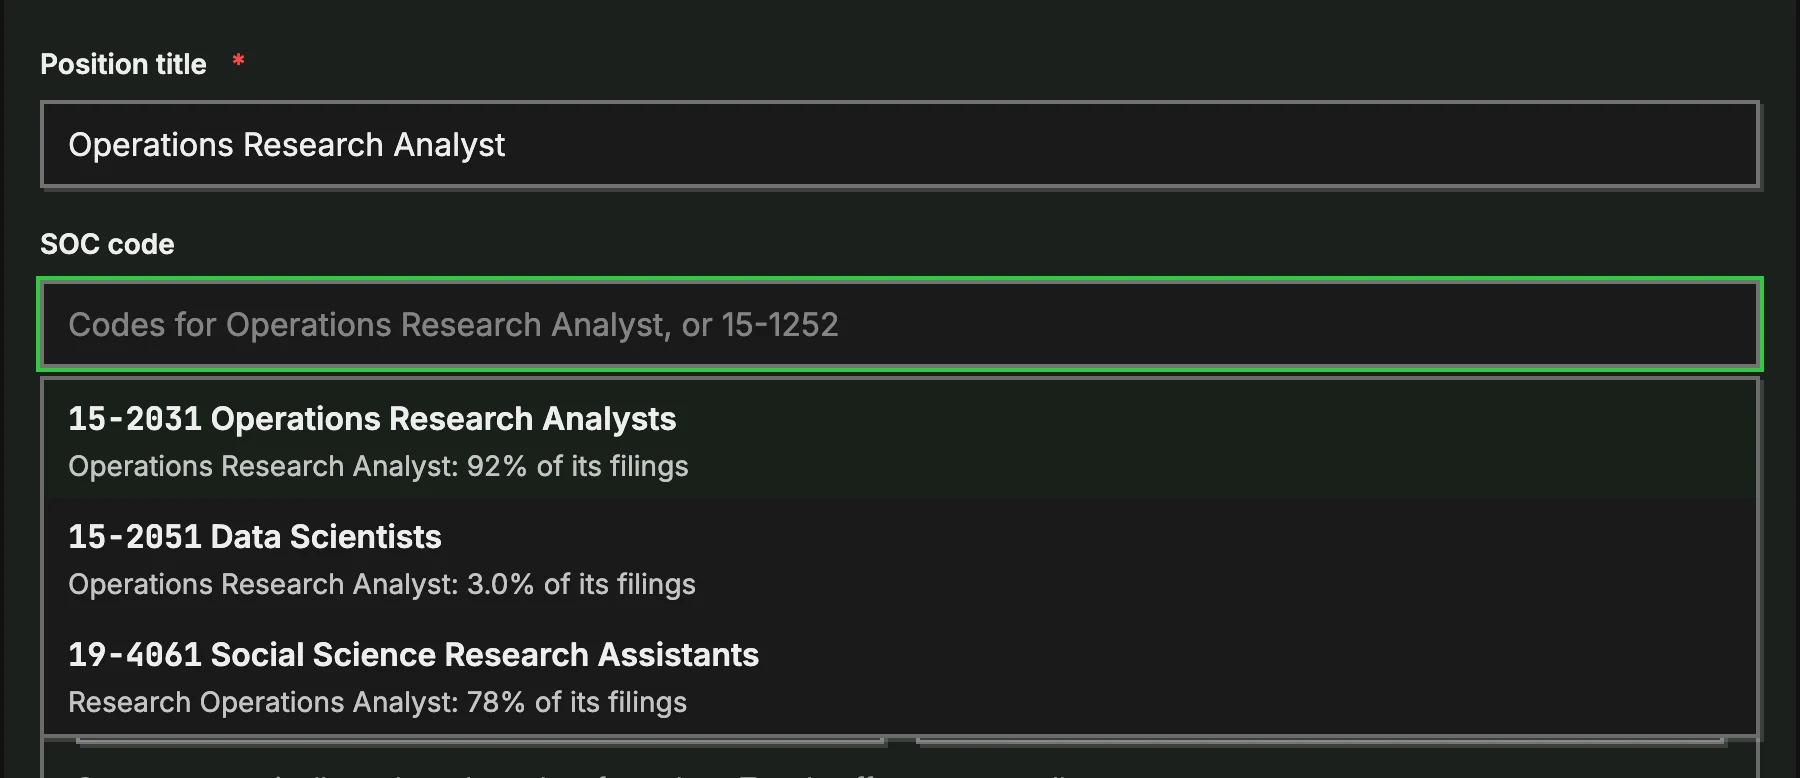
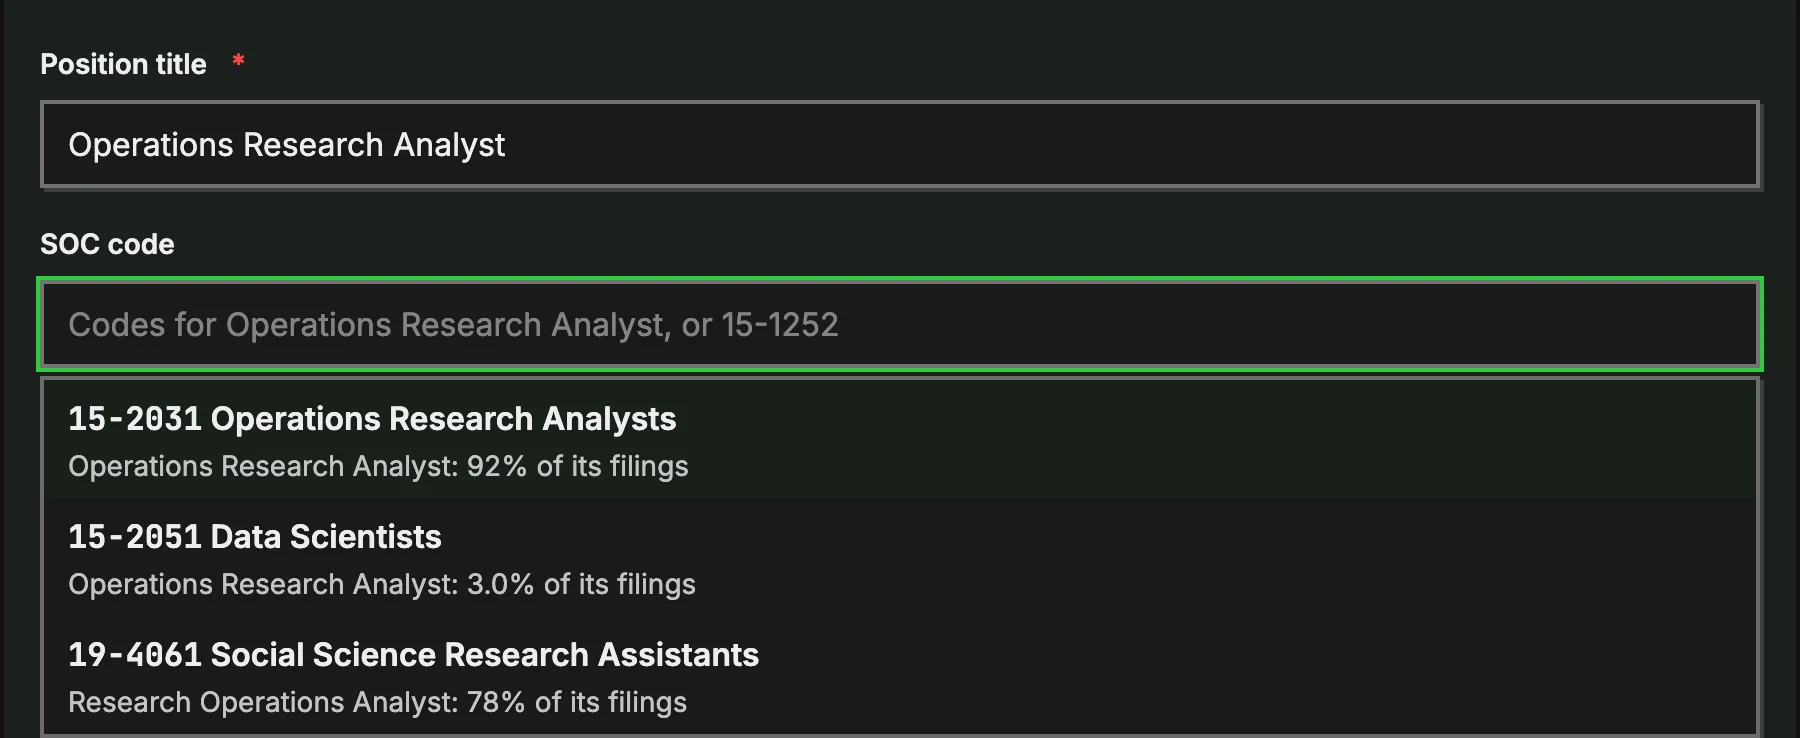
fix: the job-code steps are one switch, and three things the deploy's checks stop on
- The /for-attorneys job-code steps are one switch: all three choices in one
  bar, a lime block sliding to the picked one, the others plain and pressable
  (owner, Nov 2 2026: separate cards, then a joined tab strip, didn't read as
  something you switch). The step's sentence and picture sit under it.
- The homepage job box's placeholder fits its box ("Accountant, or 15-1252");
  the old one ran 10px over and stopped the 3:33 AM EST deploy.
- An article's photo credit link is a 44px tap target (it wrapped to 37px on a
  phone), and the video player's buttons are held to 44px (Remotion draws
  them 25 to 37px).
- The job-code picture ends at the open list's edge (capture-tour's
  padBottom), where it showed a sliver of the form behind.

Claude-Session: https://claude.ai/code/session_01XYgdcpR3a27fwYMdTXZtsH

Changed region(s): [[0.0, 0.0623, 0.9956, 1.0]]

diff --git a/v2/src/components/home/JobCodeTabs.tsx b/v2/src/components/home/JobCodeTabs.tsx
@@ -6,6 +6,7 @@ import { AppWindow, type WindowShots } from "@/components/marketing/AppWindow";
 import { cn } from "@/lib/utils";
 
 export interface JobCodeStep {
+  /** The step's name on the switch, a few words. */
   title: string;
   text: string;
   url: string;
@@ -14,10 +15,13 @@ export interface JobCodeStep {
 }
 
 /**
- * The job-code steps as tabs beside one app window: picking a step shows its capture, so three pictures take
- * one picture's room. A vertical tablist (WAI-ARIA's tabs pattern): arrow keys, Home and End move between
- * steps. Every panel is in the HTML; the ones not picked are `hidden`, so the window is as tall as the picture
- * shown (holding the tallest's room left a blank band under the shorter two).
+ * The job-code steps as one switch over one app window. All three choices sit in one
+ * bar, and a single lime block slides under the picked one (the site's mark for a
+ * pick), so the bar reads as a switch with the other positions open to press (owner,
+ * Nov 2 2026: cards in a column, then a joined tab strip, didn't read as something you
+ * switch). Picking a step shows its capture below, so three pictures take one
+ * picture's room. WAI-ARIA's tabs pattern: left and right arrows, Home and End move
+ * between steps. Every panel is in the HTML; the ones not picked are `hidden`.
  */
 export function JobCodeTabs({ steps, label }: { steps: JobCodeStep[]; label: string }) {
   const [active, setActive] = useState(0);
@@ -31,9 +35,7 @@ export function JobCodeTabs({ steps, label }: { steps: JobCodeStep[]; label: str
 
   function onKeyDown(e: KeyboardEvent<HTMLDivElement>) {
     const moves: Record<string, () => void> = {
-      ArrowDown: () => go(active + 1),
       ArrowRight: () => go(active + 1),
-      ArrowUp: () => go(active - 1),
       ArrowLeft: () => go(active - 1),
       Home: () => go(0),
       End: () => go(steps.length - 1),
@@ -46,8 +48,20 @@ export function JobCodeTabs({ steps, label }: { steps: JobCodeStep[]; label: str
   }
 
   return (
-    <div className="grid gap-10 [&>*]:min-w-0 lg:grid-cols-12 lg:items-start lg:gap-14">
-      <div role="tablist" aria-label={label} aria-orientation="vertical" onKeyDown={onKeyDown} className="flex flex-col gap-3 lg:col-span-5">
+    <div>
+      <div
+        role="tablist"
+        aria-label={label}
+        onKeyDown={onKeyDown}
+        className="relative grid border-2 border-foreground bg-tint p-1 [&>*]:min-w-0"
+        style={{ gridTemplateColumns: `repeat(${steps.length}, minmax(0, 1fr))` }}
+      >
+        {/* The switch's block: one width of a choice, slid to the picked one. */}
+        <span
+          aria-hidden="true"
+          className="pointer-events-none absolute inset-y-1 left-1 border-2 border-foreground bg-primary shadow-hard-sm transition-transform duration-300 ease-out motion-reduce:transition-none"
+          style={{ width: `calc((100% - 0.5rem) / ${steps.length})`, transform: `translateX(${active * 100}%)` }}
+        />
         {steps.map((s, i) => {
           const on = i === active;
           return (
@@ -65,42 +79,32 @@ export function JobCodeTabs({ steps, label }: { steps: JobCodeStep[]; label: str
                 tabIndex={on ? 0 : -1}
                 onClick={() => setActive(i)}
                 className={cn(
-                  "flex min-h-11 w-full items-start gap-4 border-2 px-4 py-3.5 text-left transition-colors focus-visible:outline-none focus-visible:ring-2 focus-visible:ring-ring",
-                  on ? "border-foreground bg-card shadow-hard" : "border-border/60 hover:border-foreground hover:bg-card",
+                  "relative flex min-h-12 items-center justify-center gap-2 px-2 py-2 text-center font-heading text-sm leading-tight transition-colors focus-visible:outline-none focus-visible:ring-2 focus-visible:ring-inset focus-visible:ring-ring sm:text-base",
+                  on ? "font-bold text-primary-foreground" : "font-semibold text-soft hover:bg-card hover:text-foreground",
                 )}
               >
-                <span
-                  aria-hidden="true"
-                  className={cn(
-                    "grid size-9 shrink-0 place-items-center border-2 border-foreground font-mono text-base font-bold",
-                    on ? "bg-primary text-black" : "bg-background text-foreground",
-                  )}
-                >
+                <span aria-hidden="true" className="font-mono text-xs sm:text-sm">
                   {i + 1}
                 </span>{" "}
-                <span className="min-w-0">
-                  <span className="block font-heading text-lg font-bold leading-snug">{s.title}</span>{" "}
-                  {/* On a phone only the picked step says more, so the window stays near the steps. */}
-                  <span className={cn("mt-1 text-base leading-relaxed text-soft", on ? "block" : "hidden lg:block")}>{s.text}</span>
-                </span>
+                <span className="min-w-0">{s.title}</span>
               </button>
             </Fragment>
           );
         })}
       </div>{" "}
-      <div className="lg:col-span-7">
-        {steps.map((s, i) => (
-          <div
-            key={s.url + s.title}
-            role="tabpanel"
-            id={`job-code-panel-${i}`}
-            aria-labelledby={`job-code-tab-${i}`}
-            hidden={i !== active}
-          >
-            <AppWindow url={s.url} shots={s.shots} alt={s.alt} caption="Sample cases." />
-          </div>
-        ))}
-      </div>
+      {steps.map((s, i) => (
+        <div
+          key={s.url + s.title}
+          role="tabpanel"
+          id={`job-code-panel-${i}`}
+          aria-labelledby={`job-code-tab-${i}`}
+          hidden={i !== active}
+          className="pt-5"
+        >
+          <p className="max-w-2xl text-base leading-relaxed">{s.text}</p>{" "}
+          <AppWindow url={s.url} shots={s.shots} alt={s.alt} caption="Sample cases." className="mt-5" />
+        </div>
+      ))}
     </div>
   );
 }

diff --git a/v2/src/components/home/JobCodeSection.tsx b/v2/src/components/home/JobCodeSection.tsx
@@ -4,8 +4,8 @@ import { TOUR_SHOTS } from "@/components/marketing/tourShots";
 import { JobCodeTabs, type JobCodeStep } from "./JobCodeTabs";
 
 /**
- * "From a job title to a job description": the case app's SOC code work in one band, three steps beside one app
- * window (JobCodeTabs), each step a real capture of the sample firm (src/components/tour/,
+ * "From a job title to a job description": the case app's SOC code work in one band, three steps as one switch over
+ * one app window (JobCodeTabs), each step a real capture of the sample firm (src/components/tour/,
  * scripts/capture-tour.mjs). A real sequence, so the steps are numbered: the code from the position title, the
  * description the code suggests, and the code's figures on the case page (Sabrina's three asks, Nov 1 2026).
  * One window instead of three stacked pictures, so the page grows by one band (owner, Nov 2 2026: "don't want
@@ -13,22 +13,22 @@ import { JobCodeTabs, type JobCodeStep } from "./JobCodeTabs";
  */
 const STEPS: JobCodeStep[] = [
   {
-    title: "Type the title. Pick the code.",
-    text: "The box offers the codes employers filed the title under in DOL's own files, most used first.",
+    title: "Pick the code",
+    text: "Type the position title, and the box offers the codes employers filed it under in DOL's own files, most used first.",
     url: "permtracker.app/cases/new",
     shots: TOUR_SHOTS["job-code"],
     alt: "The case form's SOC code box under the position title Operations Research Analyst, open on the codes employers filed that title under, each with its share of the filings.",
   },
   {
-    title: "Take the description, or leave it.",
-    text: "O*NET's description and tasks for the code. Keep the tasks that fit; the requirements stay the employer's.",
+    title: "Take a description",
+    text: "O*NET's description and tasks for the code, to take or leave. Keep the tasks that fit; the requirements stay the employer's.",
     url: "permtracker.app/cases/new",
     shots: TOUR_SHOTS["job-suggestion"],
     alt: "The description O*NET gives SOC 15-2031, Operations Research Analysts, suggested on the case form with its tasks ticked to include and the buttons Use this description and Not now.",
   },
   {
-    title: "See the numbers behind it.",
-    text: "The case page shows the median wage offered, how often DOL certifies the job and the titles employers use.",
+    title: "See the numbers",
+    text: "The case page shows the median wage offered for the code, how often DOL certifies it and the titles employers use.",
     url: "permtracker.app/cases",
     shots: TOUR_SHOTS["job-card"],
     alt: "The case page's card for SOC 15-2041, Statisticians: the median wage offered in decided PERM cases, the share certified, and the job titles employers filed it under.",
@@ -39,20 +39,22 @@ export function JobCodeSection() {
   return (
     <section id="job-code" aria-labelledby="job-code-heading" className="overflow-hidden border-b-2 border-black bg-background">
       <div className="mx-auto max-w-[1400px] px-4 py-14 sm:px-8 sm:py-20">
-        <div className="max-w-2xl">
-          <h2 id="job-code-heading" className="font-heading text-3xl font-bold leading-[1.05] tracking-[-0.02em] sm:text-4xl">
-            From a job title to a job description
-          </h2>{" "}
-          <p className="mt-4 text-lg leading-relaxed text-soft">
-            Each case keeps its SOC code beside the position title, and the code brings a description to start from.{" "}
-            <Link href="/soc-codes" className="link">
-              Browse the SOC code database
-            </Link>
-            .
-          </p>
-        </div>{" "}
-        <div className="mt-10">
-          <JobCodeTabs steps={STEPS} label="The job code, step by step" />
+        <div className="grid gap-10 [&>*]:min-w-0 lg:grid-cols-12 lg:items-start lg:gap-14">
+          <div className="lg:col-span-4">
+            <h2 id="job-code-heading" className="font-heading text-3xl font-bold leading-[1.05] tracking-[-0.02em] sm:text-4xl">
+              From a job title to a job description
+            </h2>{" "}
+            <p className="mt-4 text-lg leading-relaxed text-soft">
+              Each case keeps its SOC code beside the position title, and the code brings a description to start from.{" "}
+              <Link href="/soc-codes" className="link">
+                Browse the SOC code database
+              </Link>
+              .
+            </p>
+          </div>{" "}
+          <div className="lg:col-span-8">
+            <JobCodeTabs steps={STEPS} label="The job code, step by step" />
+          </div>
         </div>
       </div>
     </section>

diff --git a/v2/src/components/home/__tests__/JobCodeTabs.test.tsx b/v2/src/components/home/__tests__/JobCodeTabs.test.tsx
@@ -27,11 +27,11 @@ describe("JobCodeTabs", () => {
   it("moves between steps by keyboard, wrapping at the ends", async () => {
     render(<JobCodeTabs steps={STEPS} label="Steps" />);
     screen.getByRole("tab", { name: /One/ }).focus();
-    await userEvent.keyboard("{ArrowUp}");
+    await userEvent.keyboard("{ArrowLeft}");
     expect(screen.getByRole("tab", { name: /Three/ })).toHaveFocus();
     await userEvent.keyboard("{Home}");
     expect(screen.getByRole("tab", { name: /One/ })).toHaveAttribute("aria-selected", "true");
-    await userEvent.keyboard("{ArrowDown}");
+    await userEvent.keyboard("{ArrowRight}");
     expect(screen.getByRole("tab", { name: /Two/ })).toHaveAttribute("aria-selected", "true");
   });
 });

diff --git a/v2/src/components/content/ArticleHeader.tsx b/v2/src/components/content/ArticleHeader.tsx
@@ -93,7 +93,7 @@ export default function ArticleHeader({ meta, type }: ArticleHeaderProps) {
             {meta.imageCredit ? (
               <figcaption className="mt-2 text-sm text-muted-foreground">
                 {meta.imageSource ? (
-                  <a href={meta.imageSource} rel="noopener" target="_blank" className="underline-offset-4 hover:underline">
+                  <a href={meta.imageSource} rel="noopener" target="_blank" className="inline-flex min-h-11 items-center underline-offset-4 hover:underline">
                     {meta.imageCredit}
                   </a>
                 ) : (

diff --git a/v2/src/components/marketing/tourShots.ts b/v2/src/components/marketing/tourShots.ts
@@ -88,7 +88,7 @@ export const TOUR_SHOTS: Record<TourSurface, WindowShots> = {
     narrowDark: { src: "/images/for-attorneys/timeline-dark-phone.webp", width: 1200, height: 1120 },
   },
   "job-code": {
-    light: { src: "/images/for-attorneys/job-code-light.webp", width: 1800, height: 778 },
-    dark: { src: "/images/for-attorneys/job-code-dark.webp", width: 1800, height: 778 },
+    light: { src: "/images/for-attorneys/job-code-light.webp", width: 1800, height: 738 },
+    dark: { src: "/images/for-attorneys/job-code-dark.webp", width: 1800, height: 738 },
   },
 };

diff --git a/v2/src/components/home/JobLookupBox.tsx b/v2/src/components/home/JobLookupBox.tsx
@@ -24,7 +24,7 @@ export function JobLookupBox() {
           value={text}
           onChange={setText}
           onPick={(o) => router.push(`/soc-codes?q=${encodeURIComponent(o.soc)}`)}
-          placeholder="Software engineer, or 15-1252"
+          placeholder="Accountant, or 15-1252"
           className="flex h-12 w-full min-w-0 border-2 border-input bg-card px-3 text-base focus-visible:outline-none focus-visible:ring-2 focus-visible:ring-ring"
         />
       </div>{" "}

diff --git a/v2/src/components/content/VideoPlayerInner.tsx b/v2/src/components/content/VideoPlayerInner.tsx
@@ -41,7 +41,8 @@ export default function VideoPlayerInner({
   const Component = COMPONENTS[videoId];
 
   return (
-    <div className="aspect-video">
+    // Remotion draws its control buttons 25 to 37px; a minimum size holds them to the 44px tap floor.
+    <div className="aspect-video [&_button]:min-h-11 [&_button]:min-w-11">
       <Player
         component={Component}
         inputProps={{ brandColor: "#2ECC40" }}
